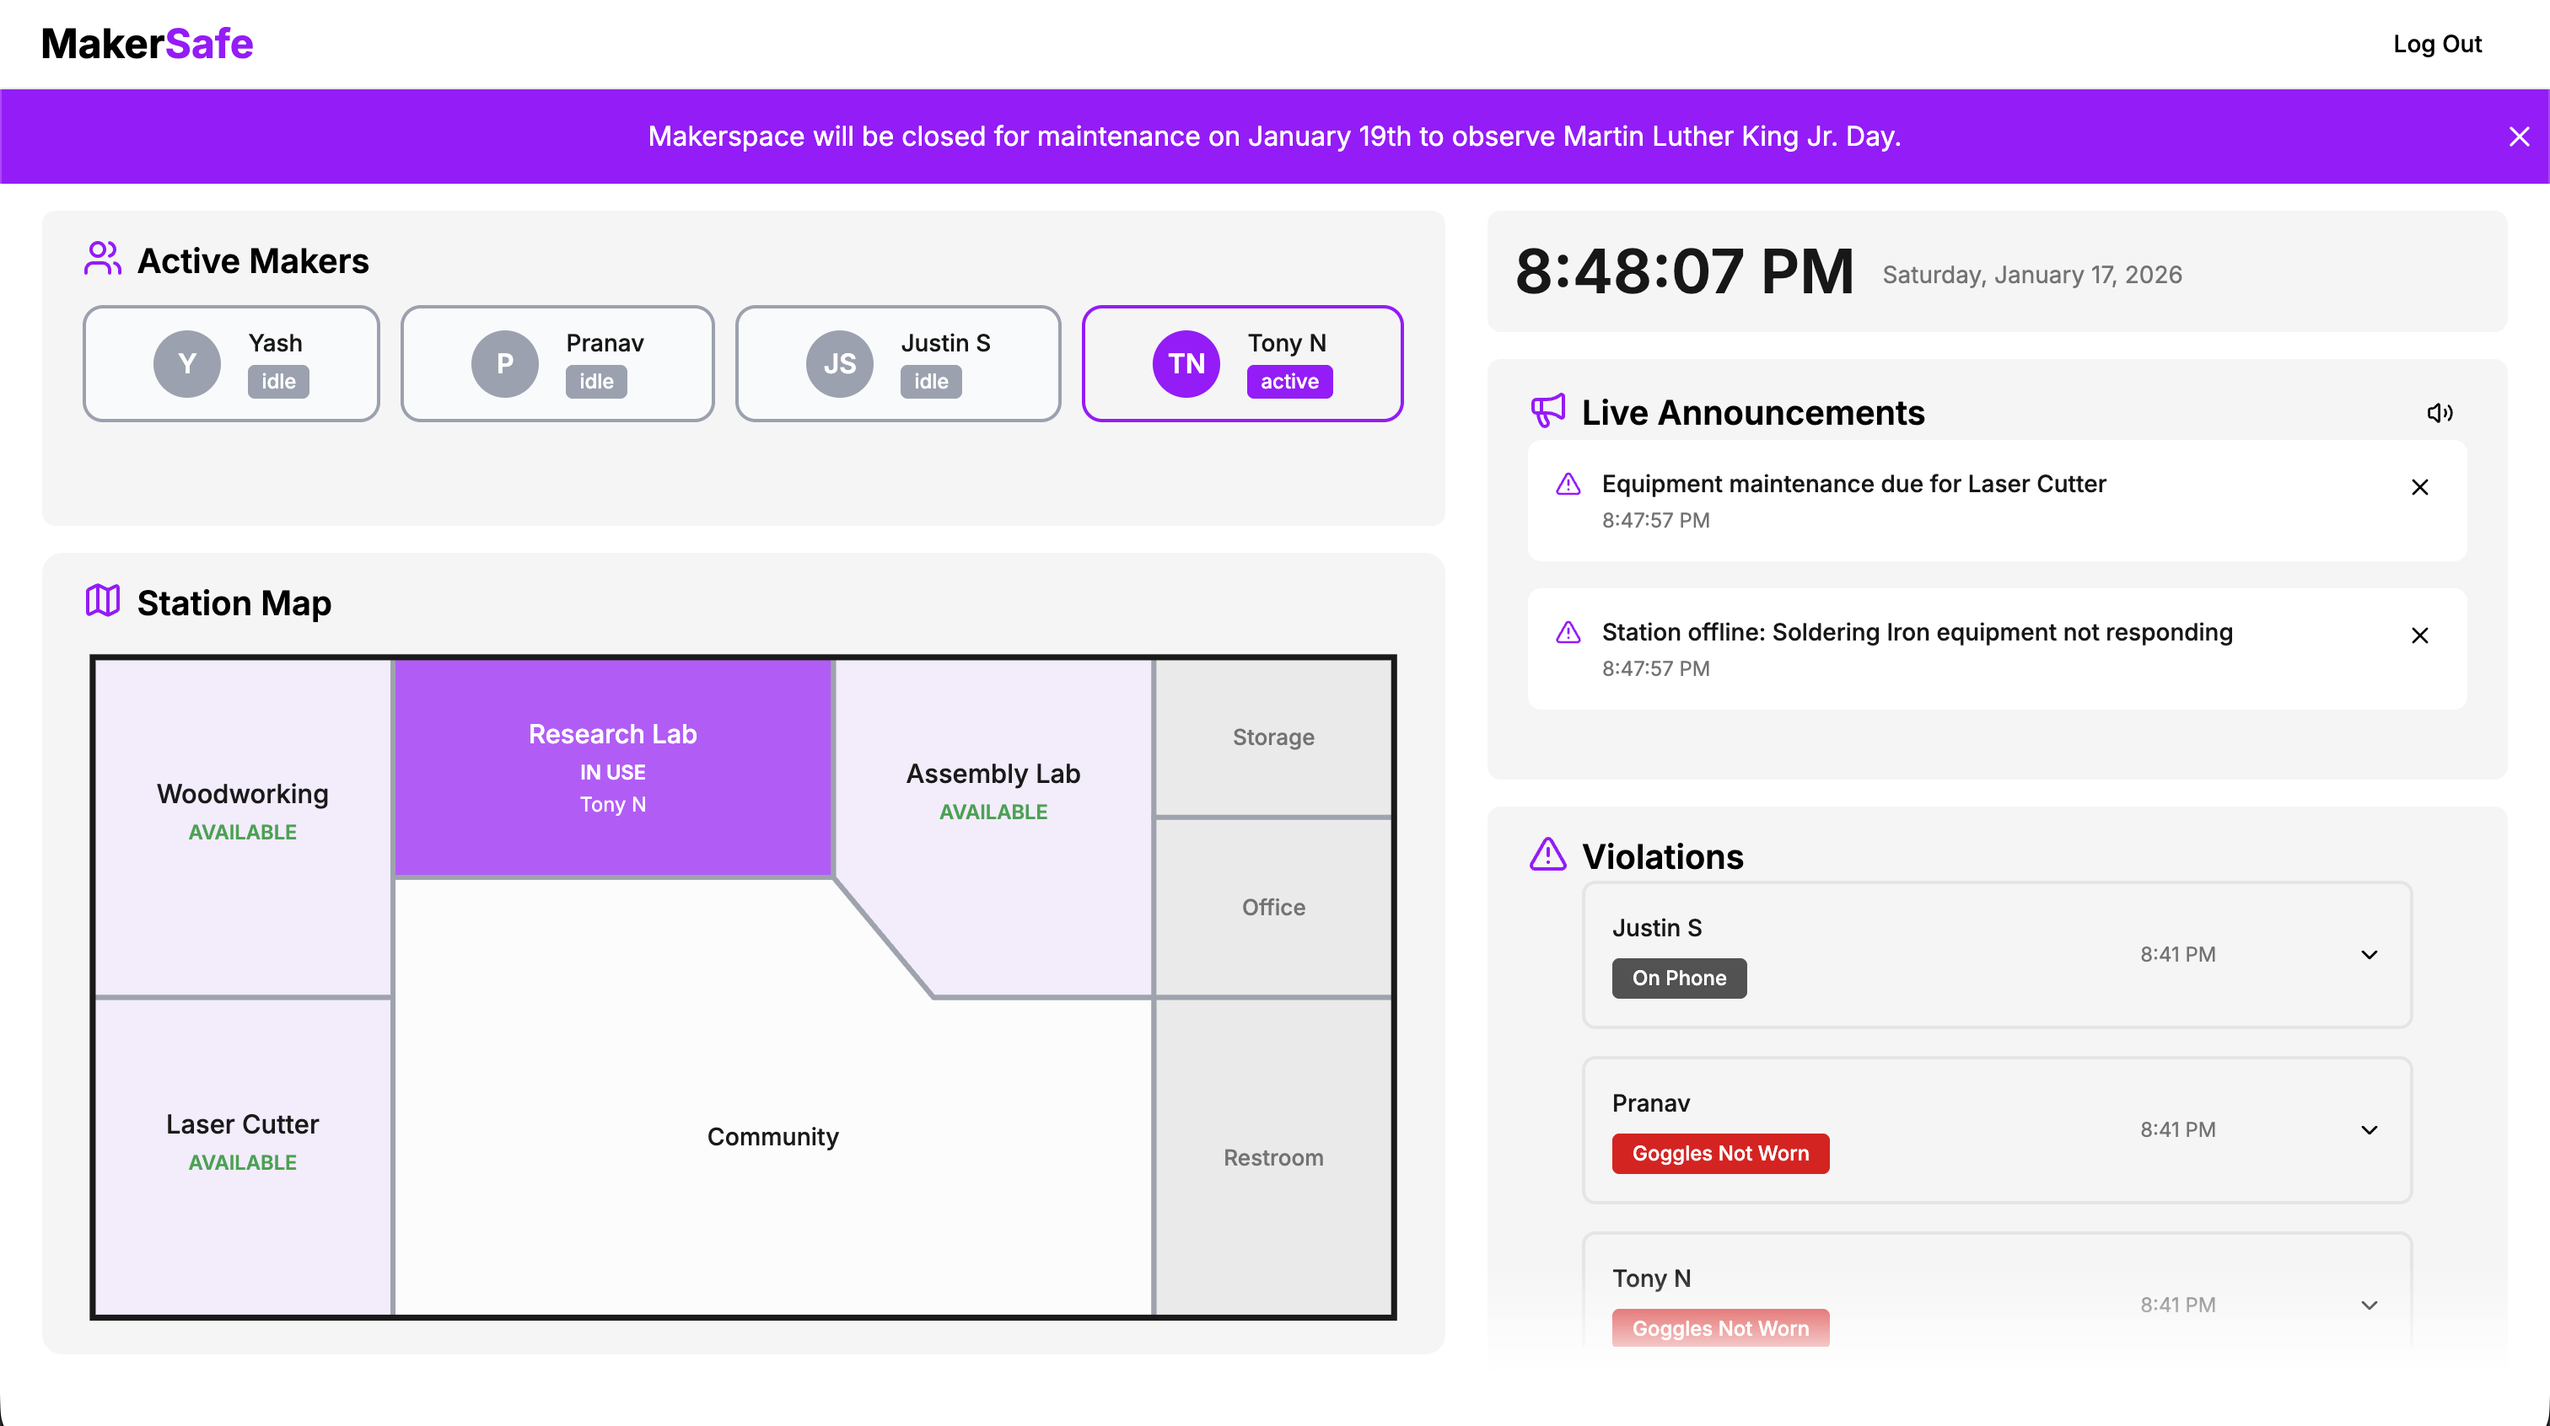
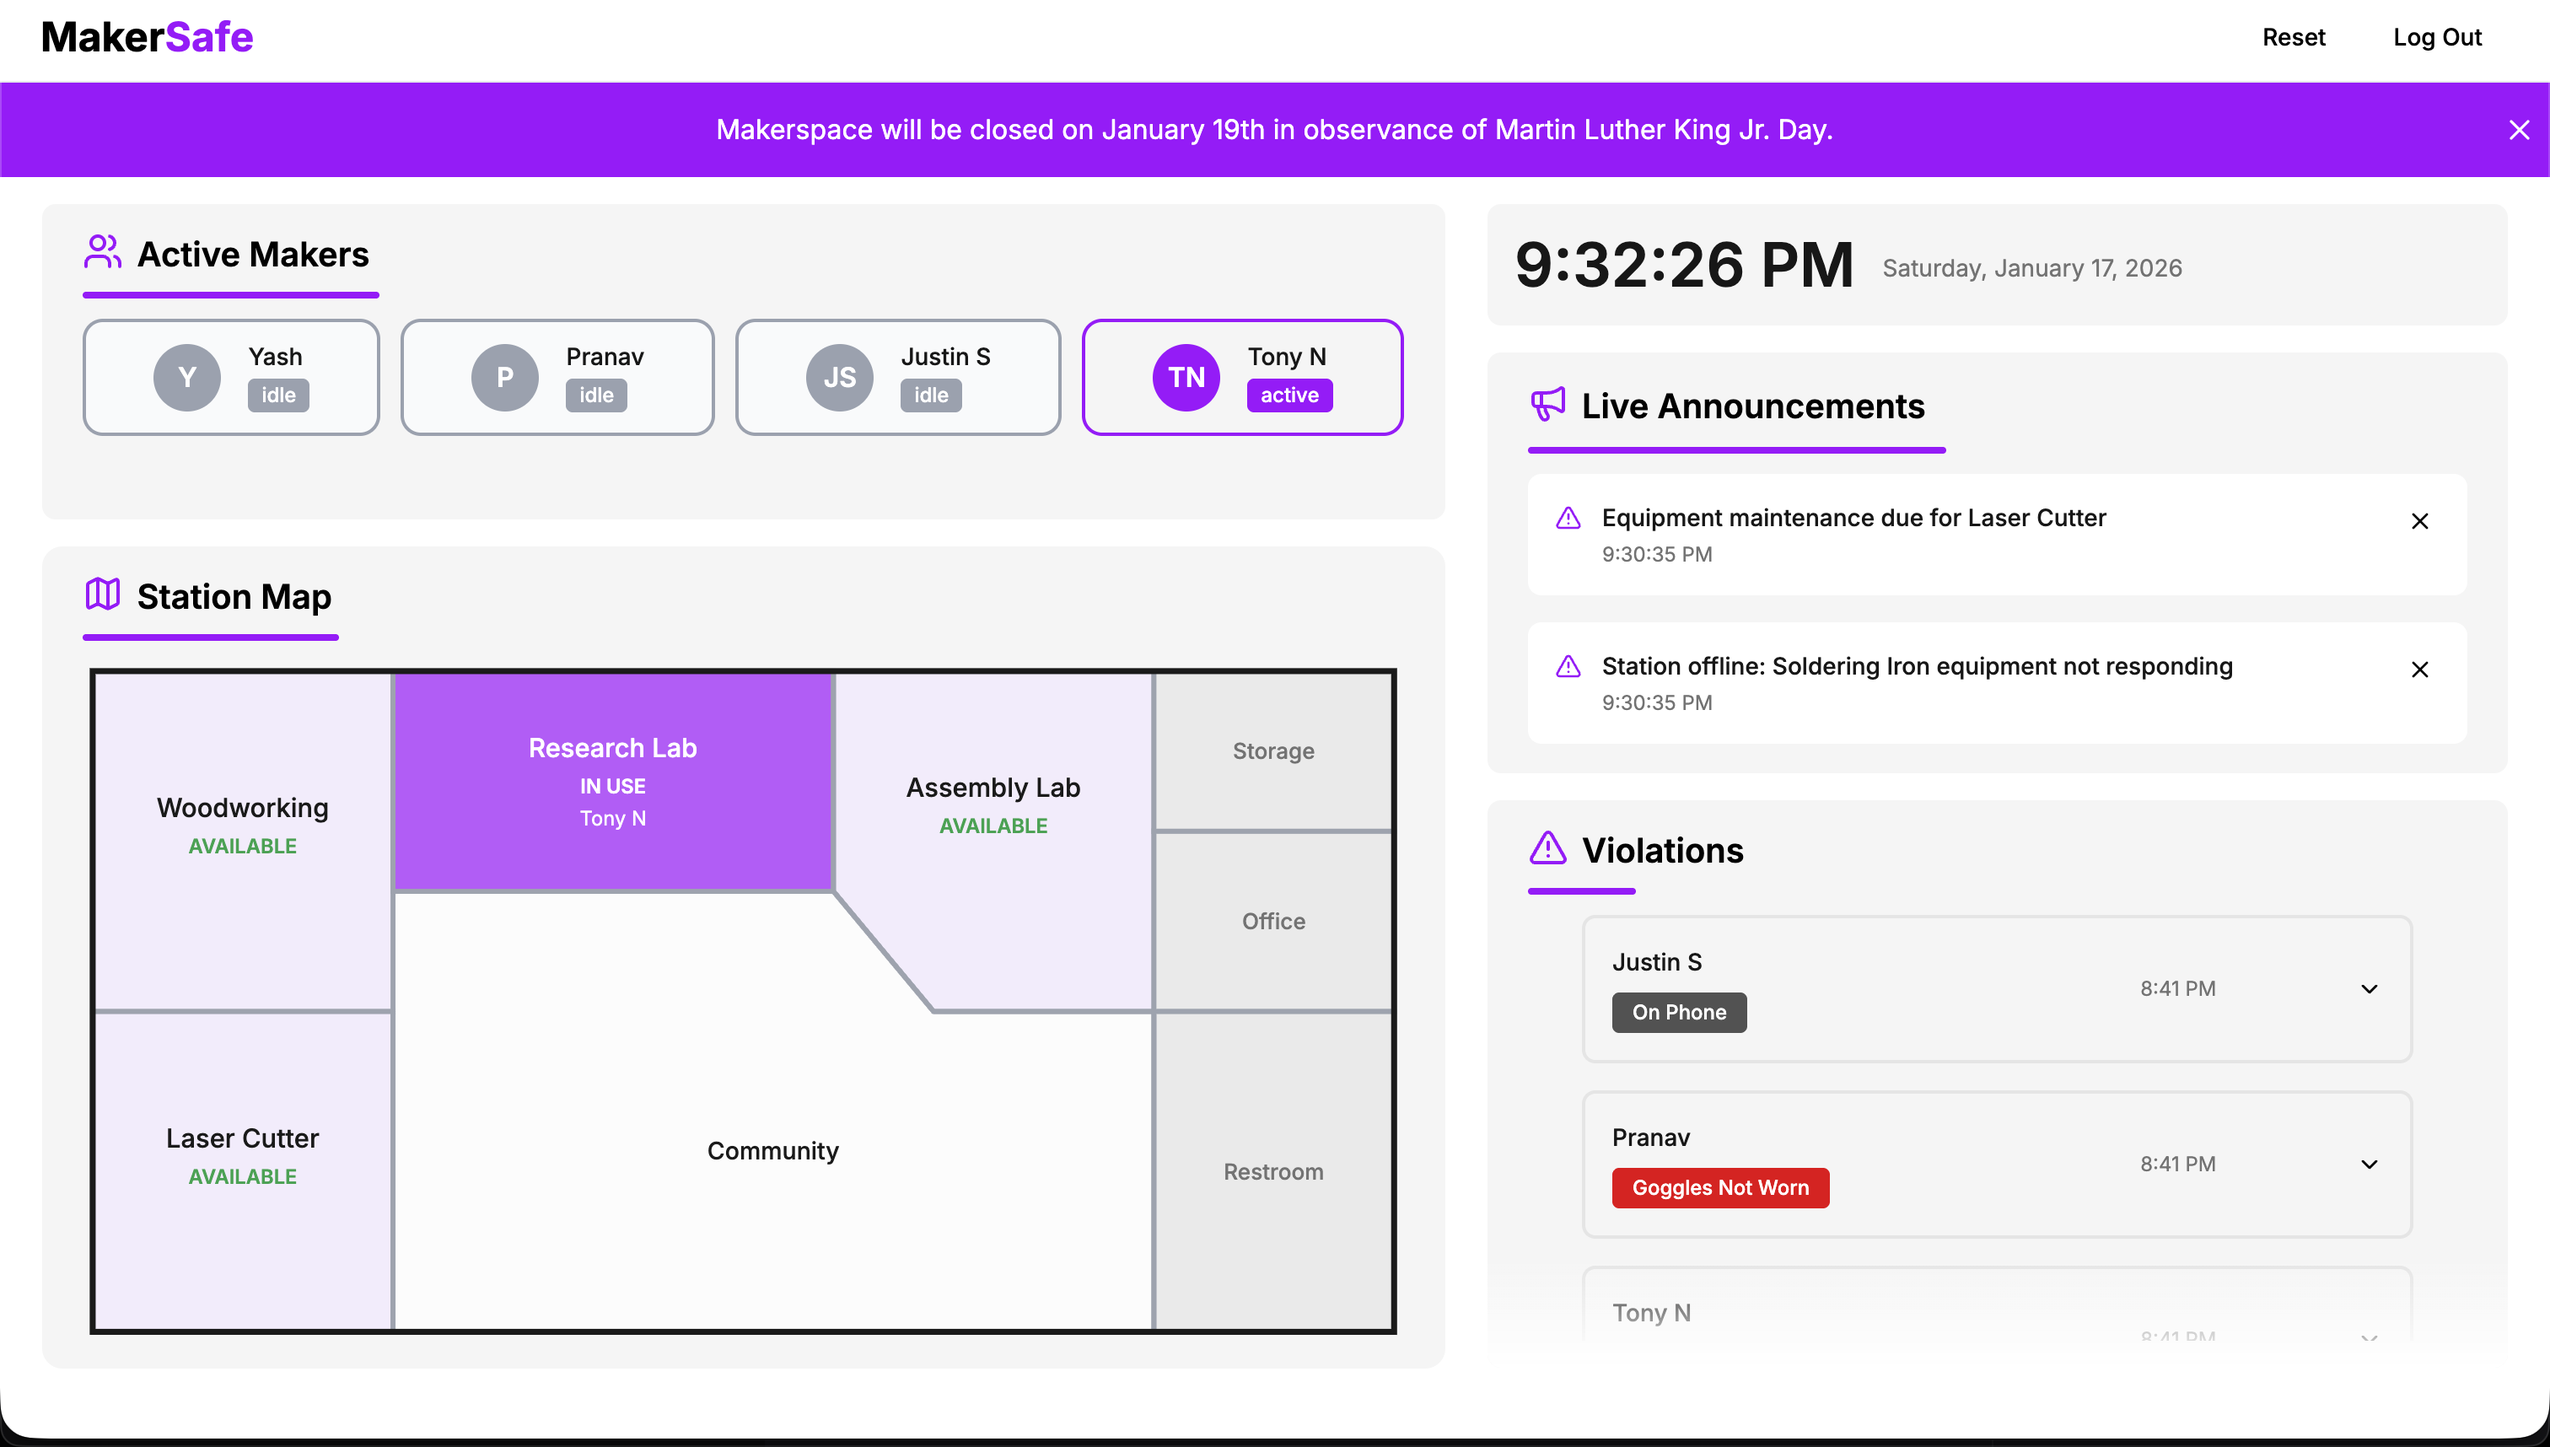
added footer to dashboard

diff --git a/client/src/page/Dashboard.jsx b/client/src/page/Dashboard.jsx
@@ -375,23 +375,26 @@ export default function Dashboard() {
         <div className="flex flex-col h-screen w-screen overflow-hidden bg-bg">
             {/* Navbar */}
             <Nav handleReset={handleReset} handleLogout={handleLogout} />
-            <StickyBanner className="bg-accent">
+            <StickyBanner className="bg-gradient-to-r from-[#A100FF] to-[#8B00E6]">
                 <p className="text-white">
                     Makerspace will be closed on January 19th in observance of Martin Luther King Jr. Day.
                 </p>
             </StickyBanner>
-                {/* Main Content */}
-                <div className="flex overflow-hidden justify-evenly w-full">
-                    <div className="flex flex-col w-[55%] h-full">
-                        <Makers makers={makers} />
-                        <MapComponent makers={makers} stations={stations} />
-                    </div>
-                    <div className="flex flex-col bg-white w-[40%] overflow-y-auto scrollbar-hide h-[90]">
-                        <Clock />
-                        <LiveAlert />
-                        <Violations violations={violations} />
-                    </div>
+            {/* Main Content */}
+            <div className="flex overflow-hidden justify-evenly w-full">
+                <div className="flex flex-col w-[55%] h-full">
+                    <Makers makers={makers} />
+                    <MapComponent makers={makers} stations={stations} />
                 </div>
+                <div className="flex flex-col bg-white w-[40%] overflow-y-auto scrollbar-hide h-[90]">
+                    <Clock />
+                    <LiveAlert />
+                    <Violations violations={violations} />
+                </div>
+            </div>
+            <footer className="py-16 text-center text-[#6F6F6F] bg-white">
+                <p className="text-[10px] font-bold uppercase tracking-[0.5em] text-[#c7c6c6]">MakerSafe // 2026</p>
+            </footer>
         </div>
     )
 }

diff --git a/client/src/page/Home.jsx b/client/src/page/Home.jsx
@@ -166,8 +166,8 @@ const handleLogout = async () => {
 
       {/* --- Footer --- */}
       <footer className="py-16 text-center text-[#6F6F6F] bg-white">
-        <p className="text-[10px] font-bold uppercase tracking-[0.5em] text-[#E6E6E6]">MakerSafe // 2026</p>
-      </footer>
+          <p className="text-[10px] font-bold uppercase tracking-[0.5em] text-[#c7c6c6]">MakerSafe // 2026</p>
+        </footer>
     </div>
   );
 }

diff --git a/client/src/index.css b/client/src/index.css
@@ -2,8 +2,7 @@
 
 @theme {
   --color-accent: #A100FF;
-  --color-accent-hover: #A100FF;
-  /* --color-accent-hover: #0096FF; */
+  --color-accent-hover: #8B00E6;
   --color-bg: #FFFFFF;
   --color-surface: #F5F5F5;
   --color-surface-muted: #F5F5F5;
